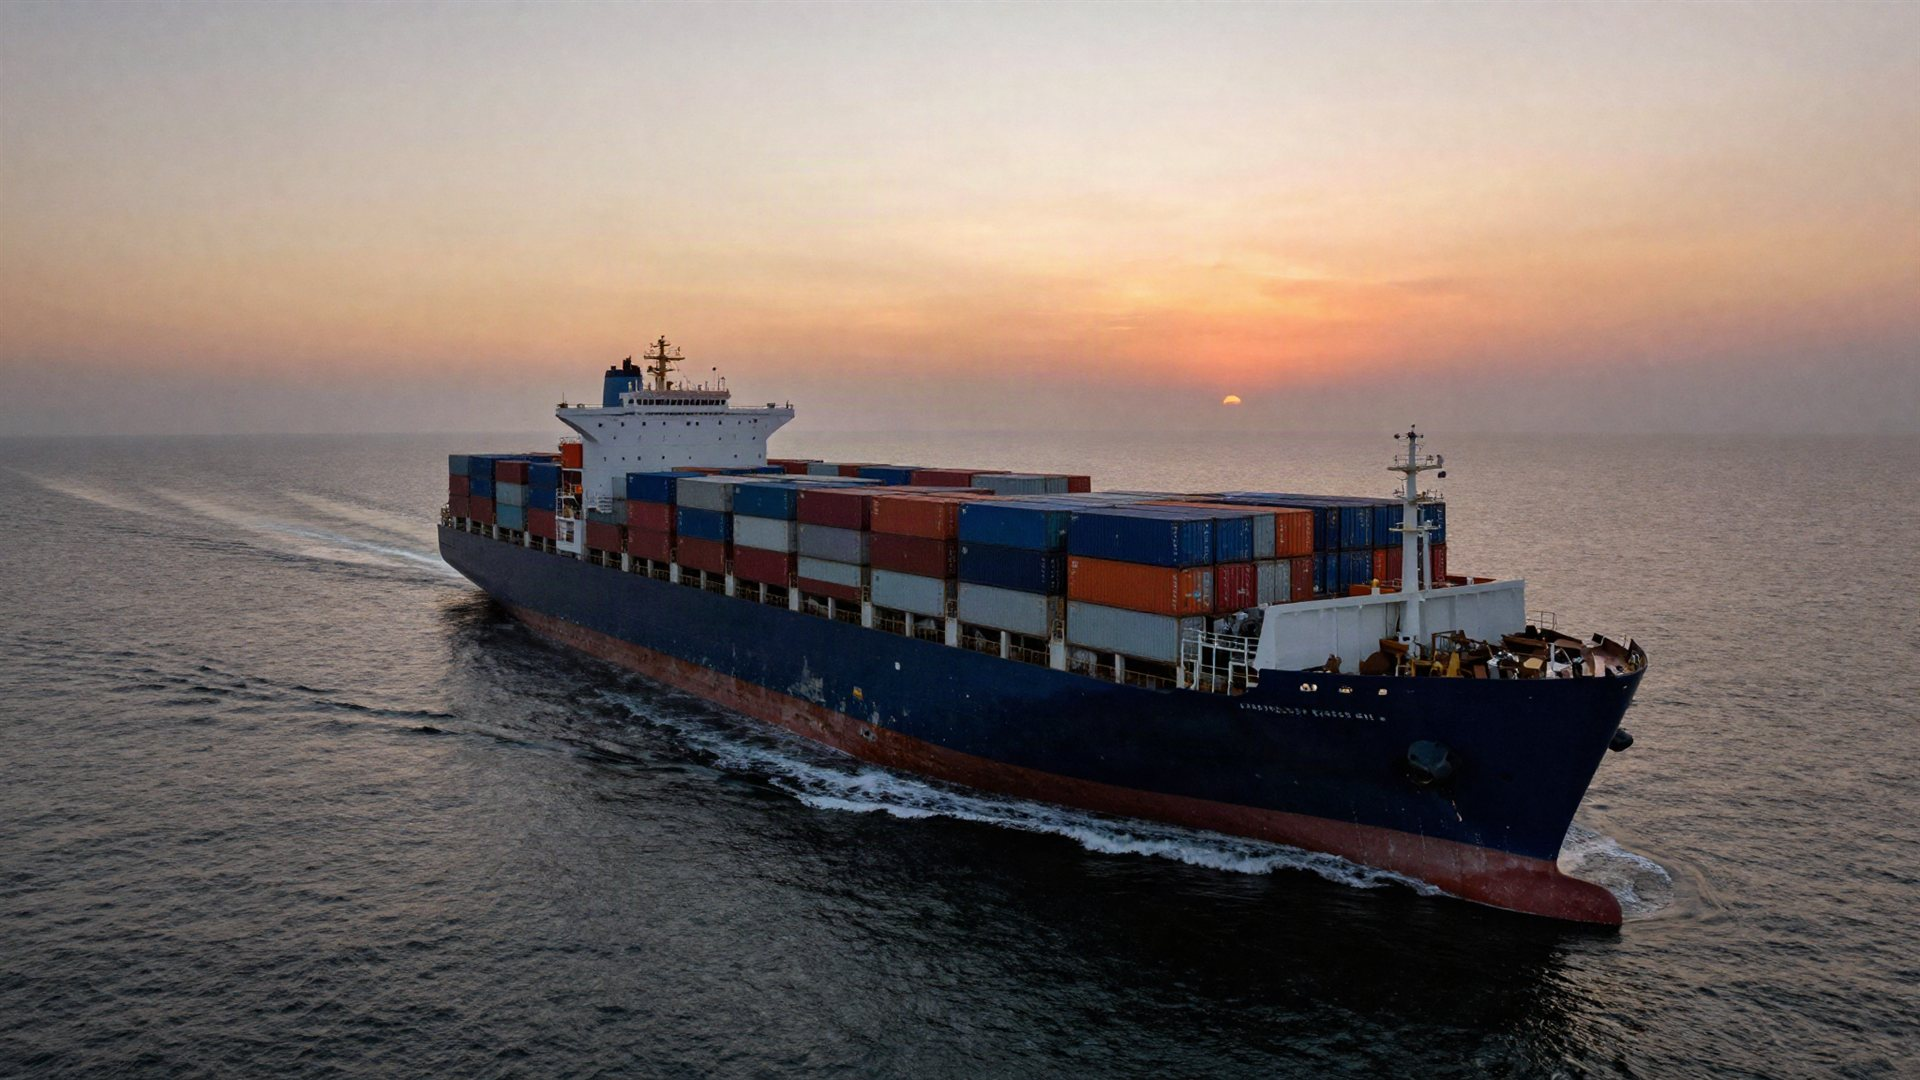
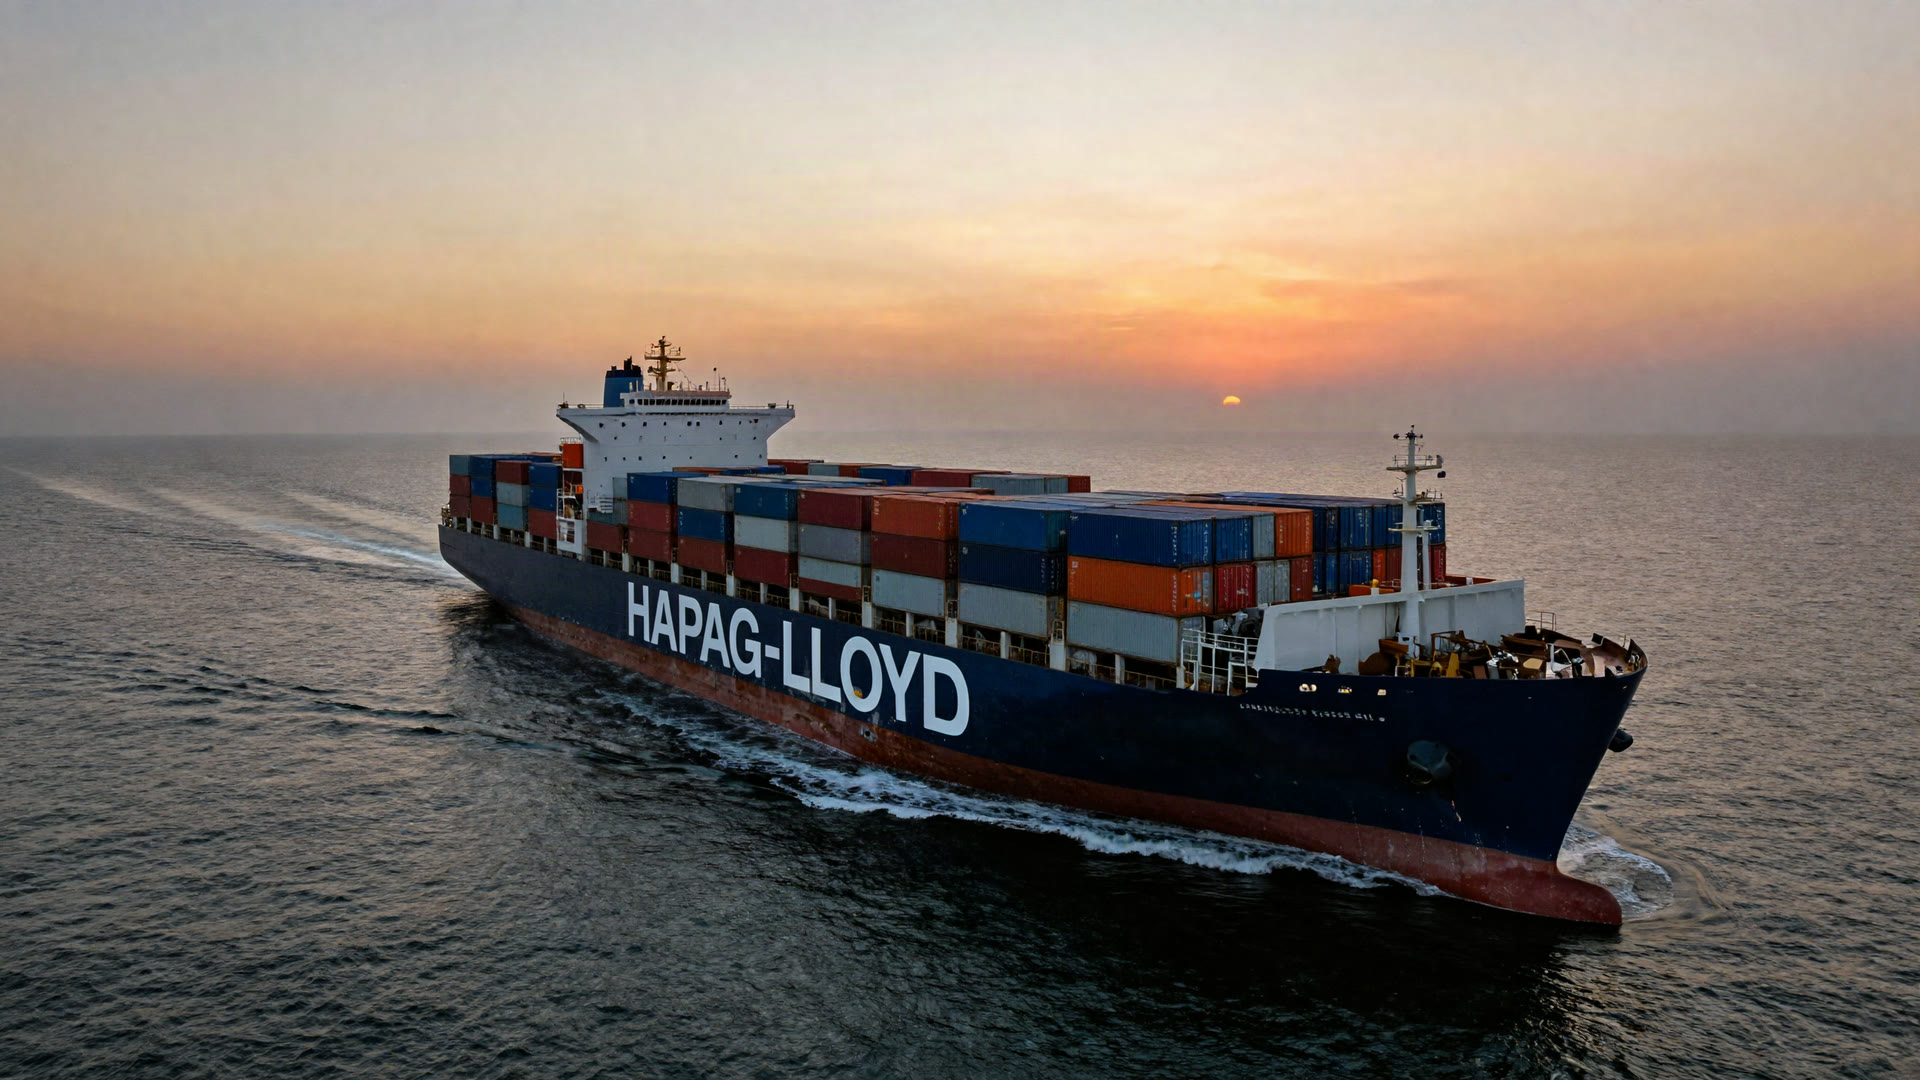
feat: s01 plate with HAPAG-LLOYD on the hull (Ideogram 4.5 edit, 0.25 credits)

diff --git a/docs/credit-ledger.md b/docs/credit-ledger.md
@@ -20,6 +20,7 @@ working setting, state the quoted cost and wait for an explicit "yes". Never gue
 | 2026-11-15 | s01 v2 realistic (compare) | kling_omni_image, 1k, 16:9 | 0.5 | 0 (refused: "Requires basic plan or higher") | 8.80 | owner, "Thử cả ba, so sánh" |
 | 2026-11-15 | s01 v2 realistic (compare) | seedream_5_0_flash, 1k, 16:9 (job 1e6ab903; first try 429 rate limit, not charged) | 0.5 | 0.5 | 8.30 (checked) | owner, "Thử cả ba, so sánh" |
 | 2026-11-15 | s01-s07 v3 realistic, light wear | z_image, 16:9, 7 images one at a time (batch of 7: 6 refused with 429, not charged) | 1.05 | 1.05 | 7.25 (checked) | owner, "sửa các plate ... trông thật hơn ... ưu tiên tối ưu điểm credit" |
+| 2026-11-15 | s01 v4, HAPAG-LLOYD on hull (edit of v3) | ideogram_4_5, very_low, 2k, magic_prompt off (job f9fa1938) | 0.25 | 0.25 | 7.00 (checked) | owner, "Thử s01 trước" |
 
 Free plan runs one Higgsfield job at a time; submit sequentially.
 
